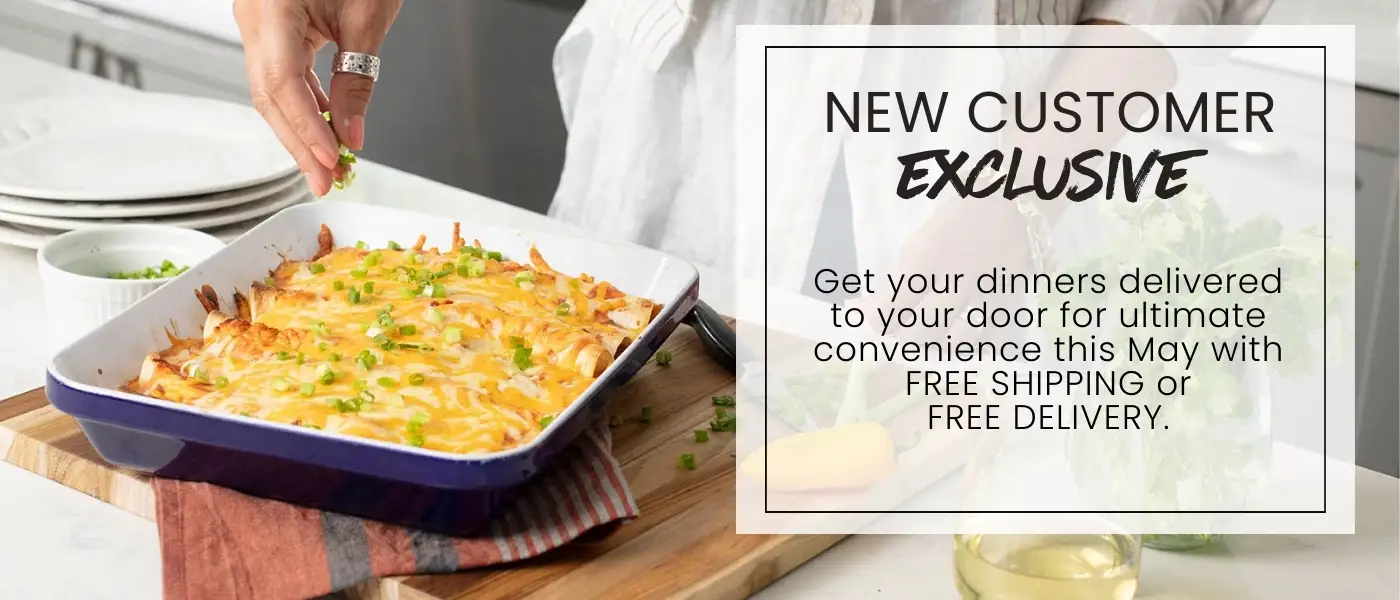
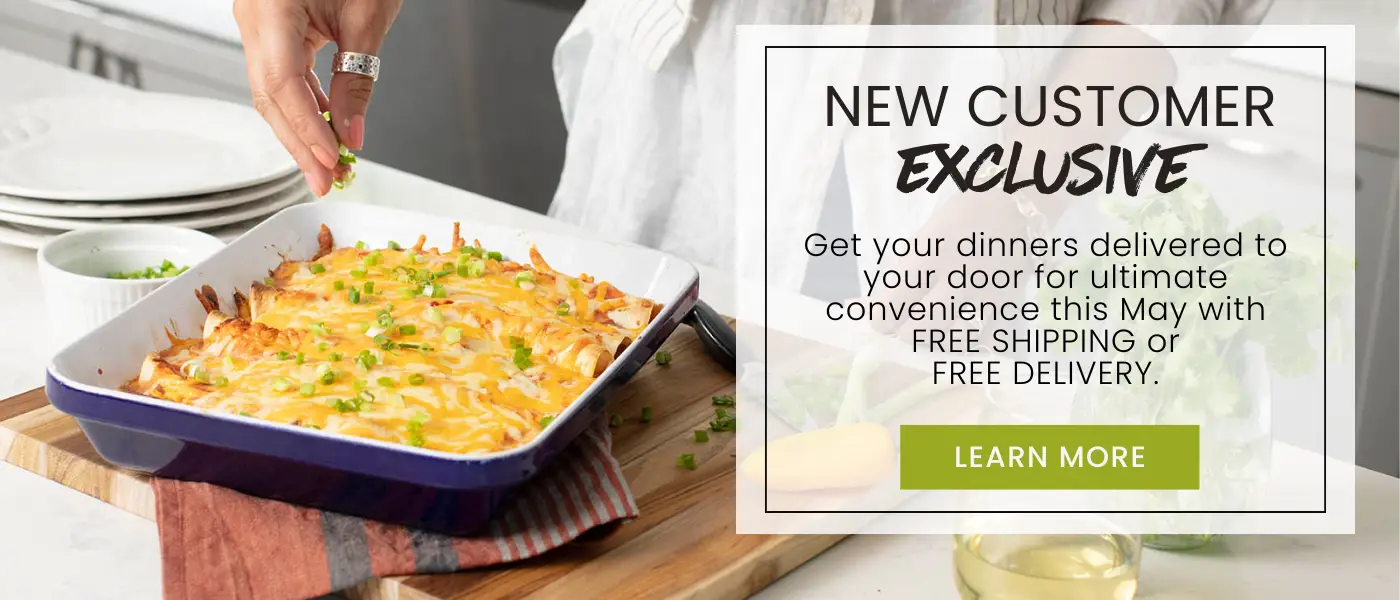
layout updates

Changed region(s): [[0.5836, 0.39, 0.9214, 0.84], [0.5836, 0.12, 0.9214, 0.33]]

diff --git a/templates/dreamdinners/customer/promotions.tpl.php b/templates/dreamdinners/customer/promotions.tpl.php
@@ -18,8 +18,67 @@
 	</header>
 
 	<main role="main">
+	<!-- offer -->
+		<section class="bg-cyan-dark">
+			<div class="container mp-5">
+				<div class="row">
+					<div class="col">
+						<div class="text-center">
+							<h2 class="mt-5 mb-1 font-weight-bold text-center text-white">Exclusive May New Customer Offer</h2>
+							<img src="<?php echo IMAGES_PATH; ?>/landing_pages/white-swash-320x12.webp" alt="swash">
+							<p class="mt-1 mb-5 font-weight-bold text-center text-white">Try Us Today with One of the Following Offers</p>
+						</div>
+					</div>
+				</div>
+			</div>
+		</section>
+		<section>
+			<div class="container my-5">
+				<div class="" id="" role="tabpanel" aria-labelledby="">
+					<div class="row my-2">
+						<div class="col">
+							<div class="card-group">
+								<div class="card border-0 py-4 px-4 mx-1 text-center">
+									<div class="card-body text-center">
+										<img src="<?php echo IMAGES_PATH; ?>/landing_pages/dream-dinners-delivered-458x344.webp" alt="Shipped to your door" class="img-fluid mb-3" />
+									</div>
+									<div class="card-body">
+										<h3 class="font-weight-bold font-have-heart-two mt-2 font-size-extra-extra-large">FREE SHIPPING</h3>
+										<p>$14.99 Value </p>
+										<p>Use code: <span class="font-weight-bold font-have-heart-two font-size-extra-large">SHIPONUS</span></p>
+										<!--<p class="my-3"><a href="/locations" class="btn btn-lg btn-green">ORDER NOW</a></p>-->
+									</div>
+								</div>
+							</div>
+						</div>
+						<div class="col">
+							<div class="card-group">
+								<div class="card border-0 py-4 px-4 mx-1 text-center">
+									<div class="card-body text-center">
+										<img src="<?php echo IMAGES_PATH; ?>/landing_pages/chelsee-hood-458x344.webp" alt="Dream Dinners Home Delivery" class="img-fluid mb-3" />
+									</div>
+									<div class="card-body">
+										<h3 class="font-weight-bold font-have-heart-two mt-2 font-size-extra-extra-large">FREE DELIVERY</h3>
+										<p>Approx. $20 Value</p>
+										<p>Use code: <span class="font-weight-bold font-have-heart-two font-size-extra-large">DELIVERFREE</span></p>
+										<!--<p class="my-3"><a href="/locations" class="btn btn-lg btn-green">ORDER NOW</a></p>-->
+									</div>
+								</div>
+							</div>
+						</div>
+						<div class="row mt-4">
+					<div class="col text-center">
+					<a href="/locations" class="btn btn-lg btn-green mb-5">Get Started</a>
+						<p>*Offer valid for new customers or customers that have not placed a Dream Dinners order in more than 6 months. Offer cannot be combined with Dinner Dollars, other coupons or offers. No cash value. Offer can be redeemed once per guest and is not transferrable. Valid only at participating locations. For local deliveries over 15 miles from the store location, an additional surcharge may charged prior to your delivery. Reach out to your local store to learn more. Offer expires July 31st.</p>
+					</div>
+				</div>
+					</div>
+				</div>
+			</div>
+		</section>
 		<section>
 			<div class="container-fluid my-5">
+			<div class="border-top mb-3 mx-5" style="border-top: #b9bf33 dotted 5px !important;"></div>
 				<div class="row hero-double">
 					<div class="col-md-6 p-0">
 						<img src="<?php echo IMAGES_PATH; ?>/landing_pages/may24-homepage-collage-circles-957x657.webp" alt="Specials" class="img-fluid">

diff --git a/templates/dreamdinners/customer/shipping.tpl.php b/templates/dreamdinners/customer/shipping.tpl.php
@@ -34,7 +34,7 @@
 			<div class="container-fluid my-5">
 				<div class="row hero-double">
 					<div class="col-md-6 text-left p-5 my-5">
-						<h1 class="font-weight-bold font-have-heart-two mt-2">Get Dream Dinners Shipped to Your Door</h1>
+						<h1 class="font-weight-bold font-have-heart-two font-size-extra-large mt-2">Get Dream Dinners Shipped to Your Door</h1>
 						<p class="text-uppercase mb-4">Real food made from scratch, so your life can feel a little easier.</p>
 						<p>Four easy, homemade meals prepped and ready to cook, most in less than 30 minutes. Order when you want, no subscription necessary. Enter your zip code to see if we can deliver to you. Great for travel or a gift for new baby, new home, mothers's day and more!</p>
 						<form action="/locations" method="post" class="form-shipping-search needs-validation" novalidate>
@@ -110,10 +110,14 @@
 						<p class="mb-4">Congratulate your friends and family on their new addition with easy, quick dinners including Sizzling Sirloin Fried Rice, Slow Roasted Carolina BBQ Pork Tenderloin with Roasted Potato Wedges, Buffalo Chicken Cavatappi, and Chicken with Honey, Garlic, and Orange with Oven Roasted Broccoli. Show your love with easy, homemade meals.</p>
 					</div>
 				</div>
+			</div>
+		</section>
+		<section class="bg-green-light">
+			<div class="container my-5 mp-5">
 				<div class="row">
-					<div class="col offset-md-2 col-md-4 mx-lg-auto">
-					<h2 class="font-weight-bold font-have-heart-two mt-2">Ready to start cooking?</h2>
-						<p class="text-uppercase mb-3">Enter you zip code to see the menu.</p>
+					<div class="col offset-md-4 col-md-6 mx-lg-auto mt-3 mb-3 text-center">
+					<h2 class="font-weight-bold font-have-heart-two font-size-extra-large mt-2">Ready to start cooking?</h2>
+						<p class="text-uppercase mb-3">Enter your zip code to see the menu.</p>
 						<form action="/locations" method="post" class="form-shipping-search needs-validation" novalidate>
 							<div class="form-group mx-auto">
 								<div class="input-group">
@@ -130,10 +134,9 @@
 					</div>
 				</div>
 			</div>
-		</section>
-
+		</section>				
 		<section>
-		<div class="border-top mb-3 mx-5" style="border-top: #b9bf33 dotted 5px !important;"></div>
+		<!--<div class="border-top mb-3 mx-5" style="border-top: #b9bf33 dotted 5px !important;"></div>-->
 			<div class="container mb-5">
 				<div class="row">
 					<div class="col">

diff --git a/templates/dreamdinners/customer/local_meal_prep.tpl.php b/templates/dreamdinners/customer/local_meal_prep.tpl.php
@@ -36,7 +36,7 @@
 						<div class="text-center">
 							<h2 class="mt-5 mb-1 font-weight-bold text-center text-white">Exclusive May New Customer Offer</h2>
 							<img src="<?php echo IMAGES_PATH; ?>/landing_pages/white-swash-320x12.webp" alt="swash">
-							<h3 class="mt-1 mb-5 font-weight-bold text-center text-white">Try Us Today with One of the Following Offers</h3>
+							<p class="mt-1 mb-5 font-weight-bold text-center text-white">Try Us Today with One of the Following Offers</p>
 						</div>
 					</div>
 				</div>
@@ -104,7 +104,7 @@
 						</div>
 					</form>
 						</div>
-						<div class="col-md-7 text-right">
+						<div class="col-md-7 mb-3 mt-3 text-right">
 							<div>
 								<img src="<?php echo IMAGES_PATH; ?>/landing_pages/air-fryer-mom-cooking-stovetop-2-images.webp" alt="Air Fryer Chicken Tenders and mom cooking on the stove" class="img-fluid" />
 							</div>
@@ -179,7 +179,7 @@
 						</div>
 					</form>
 						</div>
-						<div class="col-md-7 text-right">
+						<div class="col-md-7 text-right mb-3 mt-3">
 							<div>
 								<img src="<?php echo IMAGES_PATH; ?>/landing_pages/locally-owned-instore-2-images.webp" alt="Local Store" class="img-fluid" />
 							</div>
@@ -209,13 +209,14 @@
 		<!-- Testimonials -->
 		<section>
 			<div class="container-fluid">
+				<div class="border-top mb-3 mx-5" style="border-top: #b9bf33 dotted 5px !important;"></div>
 				<div class="row mt-4">
 					<div class="col text-center">
 						<img src="<?php echo IMAGES_PATH; ?>/landing_pages/customer-testimonials-1400x600.webp" alt="customer testimonials" class="img-fluid">
 					</div>
 				</div>
-				<div class="row text-center">
-					<div>
+				<div class="row mt-4">
+					<div class="col text-center">
 						<p>*Offer valid for new customers or customers that have not placed a Dream Dinners order in more than 6 months. Offer cannot be combined with Dinner Dollars, other coupons or offers. No cash value. Offer can be redeemed once per guest and is not transferrable. Valid only at participating locations. For local deliveries over 15 miles from the store location, an additional surcharge may charged prior to your delivery. Reach out to your local store to learn more. Offer expires July 31st.</p>
 					</div>
 				</div>

diff --git a/templates/dreamdinners/customer/home.tpl.php b/templates/dreamdinners/customer/home.tpl.php
@@ -23,7 +23,7 @@
 					  </ol>
 					  <div class="carousel-inner">
 						<div class="carousel-item active">
-						  <img class="d-block w-100" src="<?php echo IMAGES_PATH; ?>/landing_pages/new-guest-may24-free-shipping-delivery-1400x600.webp?auto=yes" alt="New Customer Exclusive Offer">
+						  <a href="/local-meal-prep"><img class="d-block w-100" src="<?php echo IMAGES_PATH; ?>/landing_pages/new-guest-may24-free-shipping-delivery-1400x600.webp?auto=yes" alt="New Customer Exclusive Offer"></a>
 						</div>
 						<div class="carousel-item">
 						  <img class="d-block w-100" src="<?php echo IMAGES_PATH; ?>/landing_pages/steak-tacos-in-a-snap-headers-1400x600.webp?auto=yes" alt="Dinner in a Snap Carne Asada Steak Tacos">
@@ -48,8 +48,8 @@
 		<section>
 			<div class="container my-5">
 				<div class="col-lg-10 mx-lg-auto">
-					<h1 class="font-weight-bold font-have-heart-two font-size-extra-extra-large">Real food made from scratch, so your life can feel a little easier.</h1>
-					<p class="text-uppercase">We do all of the shopping, chopping, prepping, and clean up. Most of our meals cook in less than 30 minutes, leaving you more time to do the things you love.</p>
+					<h1 class="font-weight-bold font-have-heart-two font-size-extra-extra-large text-center">Real food made from scratch, so your life can feel a little easier</h1>
+					<p class="text-uppercase">We do all of the shopping, chopping, prepping, and clean up. Most of our meals cook in less than 30 minutes, leaving you more time to do the things you love. <br>Find your local options to get started.</p>
 					<form action="/locations" method="post">
 						<div class="form-group mx-auto">
 							<div class="input-group">

diff --git a/templates/dreamdinners/customer/subtemplate/session_menu/session_menu_freezer.tpl.php b/templates/dreamdinners/customer/subtemplate/session_menu/session_menu_freezer.tpl.php
@@ -17,7 +17,7 @@
 
 	<div class="row mb-4">
 		<div class="col-md-8 offset-md-2 text-center">
-			These pre-assembled dinners and seasonal sides are only available at your store for a limited time. Items listed below are not customizable. Add them to your order today.
+			These seasonal sides, breakfast options and other delicious treats are only available at your store for a limited time. Items listed below are not customizable. Add them to your order today. 
 		</div>
 	</div>
 
